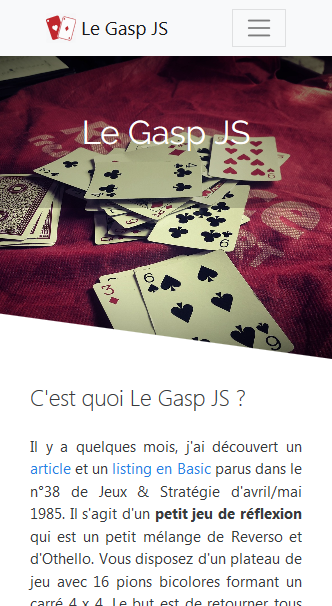
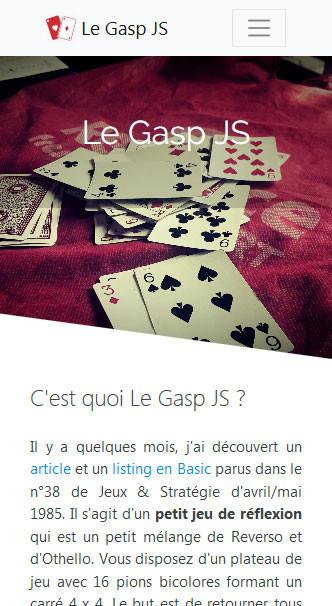
Optimisation via Google Insight

diff --git a/index.html b/index.html
@@ -53,7 +53,7 @@
 	                    <a class="nav-item nav-link" href="#" data-toggle="modal" data-target="#ModalApropos">Règles</a>
 	                </li>
 	            </ul>
-	            <span class="navbar-text">Version 0.11.21</span>
+	            <span class="navbar-text">Version 0.11.37</span>
 	        </div>
 	    </nav>
 
@@ -116,19 +116,7 @@
             https://github.com/AlexisAmand/The-Gasp-JS</a></p>
             
            	<br />
-	        
-	        <script async src="https://pagead2.googlesyndication.com/pagead/js/adsbygoogle.js"></script>
-			<!-- The Gasp -->
-			<ins class="adsbygoogle"
-			     style="display:block"
-			     data-ad-client="ca-pub-1550427609493753"
-			     data-ad-slot="4296031481"
-			     data-ad-format="auto"
-			     data-full-width-responsive="true"></ins>
-			<script>
-			     (adsbygoogle = window.adsbygoogle || []).push({});
-			</script>
-                
+	
 	</article>
                 
 	<footer class="row  mt-5">
@@ -238,7 +226,7 @@
 			    </div>
                 <div class="modal-body">
                     <div class="row">
-                        <div class="col-12">	
+                        <div class="col-12 text-center">	
                             <img src="images/captures/thegasp01.jpg" alt="capture d'écran d'une partie du jeu Le Gasp en JavaScript">
                         </div>
                     </div>
@@ -259,7 +247,7 @@
 			    </div>
                 <div class="modal-body">
                     <div class="row">
-                        <div class="col-12">	
+                        <div class="col-12 text-center">	
                             <img src="images/captures/thegasp02.jpg" alt="capture d'écran d'une partie du jeu Le Gasp en JavaScript">
                         </div>
                     </div>
@@ -280,7 +268,7 @@
 			    </div>
                 <div class="modal-body">
                     <div class="row">
-                        <div class="col-12">	
+                        <div class="col-12 text-center">	
                             <img src="images/captures/thegasp03.jpg" alt="capture d'écran d'une partie du jeu Le Gasp en JavaScript">
                         </div>
                     </div>
@@ -301,7 +289,7 @@
 			    </div>
                 <div class="modal-body">
                     <div class="row">
-                        <div class="col-12">	
+                        <div class="col-12 text-center">	
                             <img src="images/captures/thegasp04.jpg" alt="capture d'écran d'une partie du jeu Le Gasp en JavaScript">
                         </div>
                     </div>
@@ -312,9 +300,9 @@
         
 </section>
 
-<script src="js/jquery-3.4.1.min.js"></script>
-<script src="https://cdnjs.cloudflare.com/ajax/libs/popper.js/1.14.3/umd/popper.min.js" integrity="sha384-ZMP7rVo3mIykV+2+9J3UJ46jBk0WLaUAdn689aCwoqbBJiSnjAK/l8WvCWPIPm49" crossorigin="anonymous"></script>
-<script src="js/bootstrap.min.js"></script>
+<script src="https://code.jquery.com/jquery-3.5.1.slim.min.js" integrity="sha384-DfXdz2htPH0lsSSs5nCTpuj/zy4C+OGpamoFVy38MVBnE+IbbVYUew+OrCXaRkfj" crossorigin="anonymous"></script>
+<script src="https://cdn.jsdelivr.net/npm/popper.js@1.16.0/dist/umd/popper.min.js" integrity="sha384-Q6E9RHvbIyZFJoft+2mJbHaEWldlvI9IOYy5n3zV9zzTtmI3UksdQRVvoxMfooAo" crossorigin="anonymous"></script>
+<script src="https://stackpath.bootstrapcdn.com/bootstrap/4.5.0/js/bootstrap.min.js" integrity="sha384-OgVRvuATP1z7JjHLkuOU7Xw704+h835Lr+6QL9UvYjZE3Ipu6Tp75j7Bh/kR0JKI" crossorigin="anonymous"></script>
 <script src="js/thegasp.js"></script>
       
 <!-- Matomo -->

diff --git a/le-gasp.html b/le-gasp.html
@@ -53,7 +53,7 @@
 	                    <a class="nav-item nav-link" href="#" data-toggle="modal" data-target="#ModalApropos">Règles</a>
 	                </li>
 	            </ul>
-	            <span class="navbar-text">Version 0.11.21</span>
+	            <span class="navbar-text">Version 0.11.37</span>
 	        </div>
 	    </nav>
 
@@ -86,29 +86,17 @@
 		<p>Note: Dans l'article ci-dessous, j'ai masqué la solution en dix coups pour la grille 4 x 4.</p>	
 		    
     		<figure class="text-center mt-4">
-	          <img src="images/presse/JS-38-page-54-1.jpg" class="figure-img img-fluid" alt=" ">
+	          <img src="images/presse/JS-38-page-54-1.jpg" class="figure-img img-fluid" alt="Article de presse sur Le Gasp paru dans Jeux et Stratégie n°38 en 1985">
 	          <figcaption class="figure-caption">(source: Jeux &amp; Stratégie n°38 - avril/mai 1985)</figcaption>
 	        </figure>
 	        
 	        <figure class="text-center mt-4">
-	          <img src="images/presse/JS-38-page-54-2.jpg" class="figure-img img-fluid" alt=" ">
+	          <img src="images/presse/JS-38-page-54-2.jpg" class="figure-img img-fluid" alt="Article de presse sur Le Gasp paru dans Jeux et Stratégie n°38 en 1985">
 	          <figcaption class="figure-caption">(source: Jeux &amp; Stratégie n°38 - avril/mai 1985)</figcaption>
 	        </figure>
 	        
 	        <br />
 	        
-	        <script async src="https://pagead2.googlesyndication.com/pagead/js/adsbygoogle.js"></script>
-			<!-- The Gasp -->
-			<ins class="adsbygoogle"
-			     style="display:block"
-			     data-ad-client="ca-pub-1550427609493753"
-			     data-ad-slot="4296031481"
-			     data-ad-format="auto"
-			     data-full-width-responsive="true"></ins>
-			<script>
-			     (adsbygoogle = window.adsbygoogle || []).push({});
-			</script>
-    		                   
 	</article>
                 
 	<footer class="row  mt-5">
@@ -208,9 +196,9 @@
                 
 </section>
 
-<script src="js/jquery-3.4.1.min.js"></script>
-<script src="https://cdnjs.cloudflare.com/ajax/libs/popper.js/1.14.3/umd/popper.min.js" integrity="sha384-ZMP7rVo3mIykV+2+9J3UJ46jBk0WLaUAdn689aCwoqbBJiSnjAK/l8WvCWPIPm49" crossorigin="anonymous"></script>
-<script src="js/bootstrap.min.js"></script>
+<script src="https://code.jquery.com/jquery-3.5.1.slim.min.js" integrity="sha384-DfXdz2htPH0lsSSs5nCTpuj/zy4C+OGpamoFVy38MVBnE+IbbVYUew+OrCXaRkfj" crossorigin="anonymous"></script>
+<script src="https://cdn.jsdelivr.net/npm/popper.js@1.16.0/dist/umd/popper.min.js" integrity="sha384-Q6E9RHvbIyZFJoft+2mJbHaEWldlvI9IOYy5n3zV9zzTtmI3UksdQRVvoxMfooAo" crossorigin="anonymous"></script>
+<script src="https://stackpath.bootstrapcdn.com/bootstrap/4.5.0/js/bootstrap.min.js" integrity="sha384-OgVRvuATP1z7JjHLkuOU7Xw704+h835Lr+6QL9UvYjZE3Ipu6Tp75j7Bh/kR0JKI" crossorigin="anonymous"></script>
 <script src="js/thegasp.js"></script>
       
 <!-- Matomo -->

diff --git a/code-basic.html b/code-basic.html
@@ -53,7 +53,7 @@
 	                    <a class="nav-item nav-link" href="#" data-toggle="modal" data-target="#ModalApropos">Règles</a>
 	                </li>
 	            </ul>
-	            <span class="navbar-text">Version 0.11.21</span>
+	            <span class="navbar-text">Version 0.11.37</span>
 	        </div>
 	    </nav>
 
@@ -150,18 +150,6 @@
             <p class="mt-4 text-justify">Je sais qu'installer quelque chose sur son PC à l'heure actuelle est devenue compliqué. On ignore d'où vient le truc, on a peur des cookies, des traceurs, des virus, des malwares et de toutes les mauvaises épidémies qui trainent un peu partout sur le net. C'est pour cette raison que j'ai eu envie de créer cette version du Gasp qui est jouable en ligne gratuitement. Si j'ai bien calculé mon coup, le site est même "mobile friendly", ce qui veut dire qu'il va s'adapter en fonction du support que vous utilisez : tablette, ordinateur ou même téléphone. Vous pouvez jouer en <a href="jeu.html" title="Jouer une partie du jeu gratuit 'Le Gasp'">cliquant ici</a> et comme pour la version Basic, le code est dispo sur <a href="https://github.com/AlexisAmand/The-Gasp-JS" title="Voir le code source du jeu 'Le Gasp' sur GitHub">mon GitHub</a>.</p>
                      
            	<br />
-	        
-	        <script async src="https://pagead2.googlesyndication.com/pagead/js/adsbygoogle.js"></script>
-			<!-- The Gasp -->
-			<ins class="adsbygoogle"
-			     style="display:block"
-			     data-ad-client="ca-pub-1550427609493753"
-			     data-ad-slot="4296031481"
-			     data-ad-format="auto"
-			     data-full-width-responsive="true"></ins>
-			<script>
-			     (adsbygoogle = window.adsbygoogle || []).push({});
-			</script>
 
 	</article>
                 
@@ -346,9 +334,9 @@
         
 </section>
 
-<script src="js/jquery-3.4.1.min.js"></script>
-<script src="https://cdnjs.cloudflare.com/ajax/libs/popper.js/1.14.3/umd/popper.min.js" integrity="sha384-ZMP7rVo3mIykV+2+9J3UJ46jBk0WLaUAdn689aCwoqbBJiSnjAK/l8WvCWPIPm49" crossorigin="anonymous"></script>
-<script src="js/bootstrap.min.js"></script>
+<script src="https://code.jquery.com/jquery-3.5.1.slim.min.js" integrity="sha384-DfXdz2htPH0lsSSs5nCTpuj/zy4C+OGpamoFVy38MVBnE+IbbVYUew+OrCXaRkfj" crossorigin="anonymous"></script>
+<script src="https://cdn.jsdelivr.net/npm/popper.js@1.16.0/dist/umd/popper.min.js" integrity="sha384-Q6E9RHvbIyZFJoft+2mJbHaEWldlvI9IOYy5n3zV9zzTtmI3UksdQRVvoxMfooAo" crossorigin="anonymous"></script>
+<script src="https://stackpath.bootstrapcdn.com/bootstrap/4.5.0/js/bootstrap.min.js" integrity="sha384-OgVRvuATP1z7JjHLkuOU7Xw704+h835Lr+6QL9UvYjZE3Ipu6Tp75j7Bh/kR0JKI" crossorigin="anonymous"></script>
 <script src="js/thegasp.js"></script>
       
 <!-- Matomo -->

diff --git a/css/style.css b/css/style.css
@@ -1,103 +1,37 @@
-body 
-	{
-	/* background-image:url('../images/fonds/fond01.jpg'); */
-	/* background-color:rgba(83, 76, 76, 0.11); */
-	}
-
-small
-	{	
-	font-size: 68%;
-	}
+small {	font-size: 68%; }
 	
-#Plateau
-	{
+#Plateau {
 	background-image:url('../images/card-1868267_1920.jpg');
 	background-size: cover;
 	clip-path: polygon(0 0, 100% 0%, 100% 100%, 0 85%);
 	background-position: center;
-	background-attachment: fixed;
-	}
+	background-attachment: fixed; }
 
-#icone
-	{
-	width:30px;
-	height:30px;
-	}
+#icone { width:30px;height:30px; }
 
-/*
-img 
-	{
-	width:100%;
-	max-width: 115px;
-	}
-*/
+.H { display:none; }
 	
-.H
-	{
-	display:none;
-	}
+.col-3 { text-align:center; }
 	
-.col-3
-	{
-	text-align:center;
-	}
+#ModalOptions .cartes {	width: 70px; }
 	
-#ModalOptions .cartes
-	{
-	width: 70px;
-	}
-	
-#ModalOptions .fonds
-	{
-	width: 140px;
-	}
+#ModalOptions .fonds { width: 140px; }
 
-small
-	{	
-	font-size: 68%;
-	}
+small {	font-size: 68%; }
 	
-#titre
-	{
-	 background-color: rgba(0, 0, 0, 0.2); 
-	}	
+#titre { background-color: rgba(0, 0, 0, 0.2); }	
 
-#titre h2
-	{
-	color:white;
-	font-family: 'Raleway', sans-serif;
-	font-size:2.2em;
-	}
+#titre h2 { color:white;font-family: 'Raleway', sans-serif;font-size:2.2em; }
 
-#titre, #slogan
-	{
-		min-height: 50vh;	
-	}
+#titre, #slogan { min-height: 20vh;	}
 
 @media (max-width: 575.98px) 
 	{ 
-	#titre
-		{
-		text-align: center;
-		}
-	
-	#slogan
-		{
-		visibility: hidden;	
-		}
-
-	#titre, #slogan
-		{
-		min-height: 25vh;	
-		}
+	#titre { text-align: center; }
+	#slogan { visibility: hidden; }
+	#titre, #slogan { min-height: 25vh; }
 	}
 	
-footer a
-	{
-	text-decoration:underline;
-	}
+footer a { text-decoration:underline; }
 	
-footer p
-	{
-	font-size:0.8em;
-	}
+footer p { font-size:0.8em; }

diff --git a/css/game.css b/css/game.css
@@ -1,59 +1,32 @@
-body 
-	{
-	/* background-image:url('../images/fonds/fond01.jpg'); */
-	}
-	
-#BigPage
-	{
+#BigPage {
 	background-color: #8dbbe9;
 	min-height: calc(100vh - 89px);
 	background-image:url('../images/card-1868267_1920.jpg');
 	background-size: cover;
-	}
+}
 	
-#icone
-	{
+#icone {
 	width:30px;
 	height:30px;
-	}
+}
 	
-img 
-	{
+img {
 	width:100%;
 	max-width: 115px;
-	}
+}
 	
-.H 
-	{
+.H {
 	display:none;
-	}
+}
 
-.col-3
-	{
+.col-3 {
 	text-align:center;
-	}
+}
 
-.card
-	{
-	/* width: 18rem; */	
-	}	
-	
-#ModalOptions .cartes
-	{
+#ModalOptions .cartes {
 	width: 70px;
-	}
+}
 	
-#ModalOptions .fonds
-	{
-	/* width: 140px; */
-	}
-
-small
-	{	
-	/* font-size: 68%; */
-	}
-	
-footer
-	{
+footer {
 	background-color: #f8f9fa;
-	}
+}

diff --git a/jeu.html b/jeu.html
@@ -51,7 +51,7 @@
 							<a class="nav-item nav-link" href="#" data-toggle="modal" data-target="#ModalApropos">Règles</a>
 						</li>
                     </ul>
-                    <span class="navbar-text">Version 0.11.21</span>
+                    <span class="navbar-text">Version 0.11.37</span>
             	</div>
 			</nav>                
         
